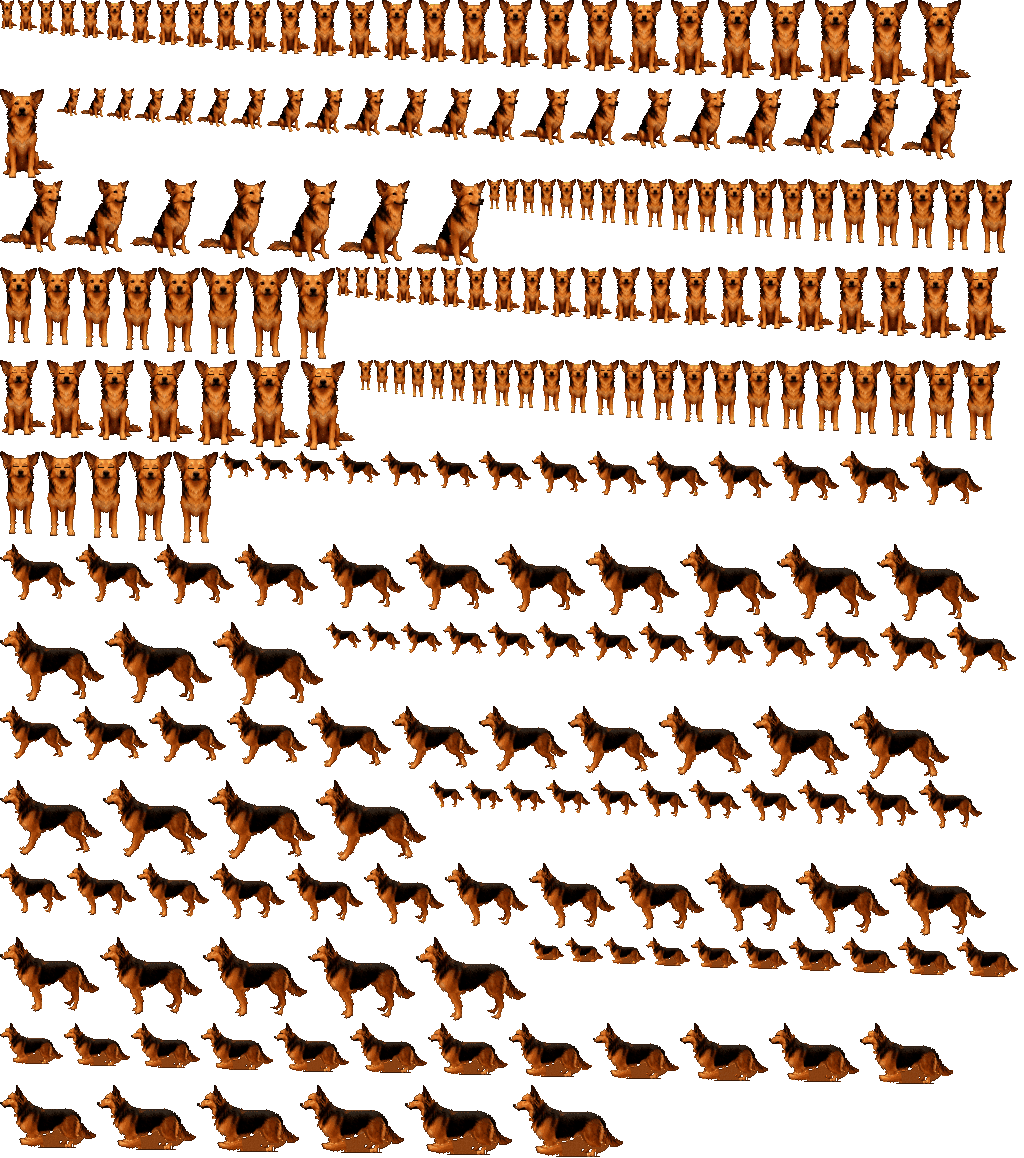
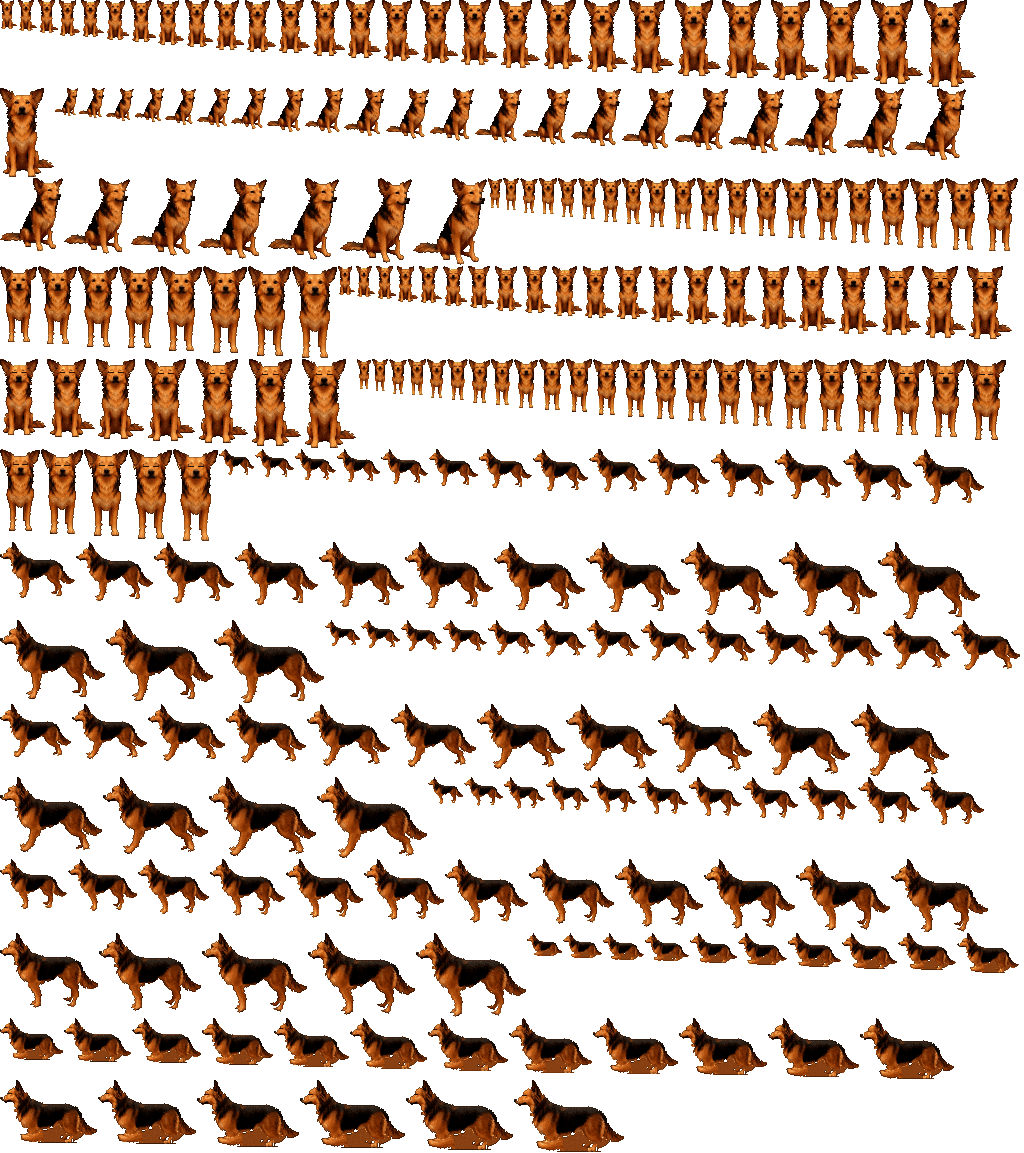
Kleidung pro Pose passgenau vorgezeichnet (Front, 3/4, Profil, Liegen) statt flacher Aufkleber
Claude-Session: https://claude.ai/code/session_01QePyTZKckV5D78KCRfW8MK

diff --git a/raya/items.js b/raya/items.js
@@ -263,71 +263,16 @@ function drawDecor(it) {
 
 /* ---------- Kleidung auf Raya ----------
    Ankerpunkte in Pixeln des 100-%-Sprites (ungespiegelt): Kopfoberseite, Hals, Mantelbereich */
-const WEAR_ANCHORS = {
-  sit: { W: 56, head: [28, 13], neck: [28, 41], coat: [15, 38, 41, 66] },
-  stand: { W: 45, head: [22, 13], neck: [22, 41], coat: [10, 38, 35, 62] },
-  sit34: { W: 75, head: [52, 11], neck: [50, 33], coat: [33, 36, 64, 64] },
-  side: { W: 112, head: [20, 9], neck: [30, 33], back: [[36, 27], [84, 28], [90, 46], [40, 52]] },
-  lie: { W: 112, head: [20, 16], neck: [30, 40], back: [[36, 34], [84, 35], [90, 52], [40, 58]] },
-};
-WEAR_ANCHORS['side-w1'] = WEAR_ANCHORS['side-w2'] = WEAR_ANCHORS.side;
-
-function drawWear(itemId, poseName, x, y, w, flip) {
-  const it = ITEM_BY_ID[itemId]; if (!it || !it.wear) return;
-  const A = WEAR_ANCHORS[poseName.replace('-closed', '')]; if (!A) return;
-  const k = w / A.W;
-  const X = (px, pw = 0) => Math.round(x + (flip ? A.W - px - pw : px) * k);
-  const Y = (py) => Math.round(y + py * k);
-  const S = (v) => Math.max(1, Math.round(v * k));
-  const rect = (px, py, pw, ph, col) => { ctx.fillStyle = PAL[col] || col; ctx.fillRect(X(px, pw), Y(py), S(pw), S(ph)); };
-  const [hx, hy] = A.head, [nx, ny] = A.neck;
-  switch (it.wear) {
-    case 'xmas': {
-      for (let i = 0; i < 14; i++) {
-        const wdt = 16 * (1 - i / 15), cx = hx + i * 0.45;
-        rect(cx - wdt / 2, hy - 4 - i, wdt, 1, 'X');
-      }
-      rect(hx - 10, hy - 4, 20, 4, 'W'); rect(hx - 10, hy - 1, 20, 1, 'S');
-      rect(hx + 4, hy - 21, 5, 5, 'W');
-      break;
-    }
-    case 'hat':
-      rect(hx - 8, hy - 11, 16, 9, 'h'); rect(hx - 3, hy - 11, 6, 1, 'H');
-      rect(hx - 8, hy - 5, 16, 2, 'K');
-      rect(hx - 14, hy - 3, 28, 3, 'H'); rect(hx - 14, hy - 1, 28, 1, 'K');
-      break;
-    case 'wreath': {
-      const cols = ['A', 'Y', 'a', 'A', 'w', 'Y', 'A'];
-      for (let i = 0; i < 7; i++) {
-        const ox = -12 + i * 4, oy = -Math.abs(ox) * 0.18;
-        if (i < 6) rect(hx + ox + 2, hy - 1 + oy, 2, 1, 't');
-        rect(hx + ox - 1.5, hy - 3 + oy, 3, 3, cols[i]); rect(hx + ox - 0.5, hy - 2 + oy, 1, 1, i % 2 ? 'X' : 'y');
-      }
-      break;
-    }
-    case 'scarf':
-      rect(nx - 11, ny - 2, 22, 3, 'X'); rect(nx - 11, ny + 1, 22, 1, 'x');
-      for (let i = 0; i < 9; i++) rect(nx - 9 + i, ny + 1 + i, 18 - 2 * i, 1, i % 3 === 1 ? 'x' : 'X');
-      rect(nx - 4, ny + 3, 1, 1, 'w'); rect(nx + 3, ny + 2, 1, 1, 'w'); rect(nx, ny + 6, 1, 1, 'w');
-      break;
-    case 'coat':
-      if (A.coat) {
-        const [x0, y0, x1, y1] = A.coat;
-        for (let yy = y0; yy < y1; yy++) {
-          const f = (yy - y0) / (y1 - y0), pad = -1.5 * f;
-          rect(x0 + pad, yy, x1 - x0 - 2 * pad, 1, yy === y1 - 1 ? 'j' : 'B');
-        }
-        rect(x0, y0, x1 - x0, 2, 'j'); rect((x0 + x1) / 2 - 0.5, y0 + 2, 1, y1 - y0 - 3, 'j');
-        for (let b = 0; b < 3; b++) rect((x0 + x1) / 2 + 2, y0 + 6 + b * 7, 2, 2, 'Y');
-      } else if (A.back) {
-        ctx.fillStyle = PAL.B; ctx.beginPath();
-        A.back.forEach(([px, py], i) => (i ? ctx.lineTo(X(px), Y(py)) : ctx.moveTo(X(px), Y(py))));
-        ctx.closePath(); ctx.fill();
-        ctx.fillStyle = PAL.j;
-        const [p0, p1] = A.back;
-        ctx.fillRect(Math.min(X(p0[0]), X(p1[0])), Y(p0[1]), Math.abs(X(p1[0]) - X(p0[0])), S(2));
-        rect((p0[0] + p1[0]) / 2, p0[1] + 6, 2, 2, 'Y'); rect((p0[0] + p1[0]) / 2 + 10, p0[1] + 7, 2, 2, 'Y');
-      }
-      break;
-  }
+/* Kleidung: pro Pose und Größenstufe passgenau vorgezeichnet (raya-wear.png, Daten in raya-atlas.json).
+   Jede Kachel kennt ihren Versatz zur Raya-Kachel derselben Stufe. */
+const WEAR_KEY = { halstuch: 'scarf', regenmantel: 'coat', weihnachtsmuetze: 'xmas', blumenkranz: 'wreath', abenteuerhut: 'hat' };
+function drawWear(itemId, poseName, li, x, y, w, flip) {
+  const key = WEAR_KEY[itemId]; if (!key || !ATLAS.wimg) return;
+  const set = ATLAS.wear[key]; if (!set) return;
+  const t = (set[poseName.replace('-closed', '')] || [])[li]; if (!t) return;
+  const [sx, sy, tw, th, dx, dy] = t;
+  const ox = flip ? x + w - dx - tw : x + dx;
+  if (flip) { ctx.save(); ctx.scale(-1, 1); ctx.drawImage(ATLAS.wimg, sx, sy, tw, th, -ox - tw, y + dy, tw, th); ctx.restore(); }
+  else ctx.drawImage(ATLAS.wimg, sx, sy, tw, th, ox, y + dy, tw, th);
+  return [ox, y + dy, ox + tw, y + dy + th];
 }

diff --git a/raya/scene.js b/raya/scene.js
@@ -16,13 +16,14 @@ const TABLES = [[196, 177], [216, 166], [264, 165], [267, 190], [255, 208], [200
 const hSit = (depth) => clamp(36 + 0.52 * (depth - 178), 30, 96);
 
 /* ---------- Atlas (Raya in 9 Tiefenstufen) + Karten ---------- */
-const ATLAS = { img: null, levels: [], tiles: {} };
+const ATLAS = { img: null, wimg: null, levels: [], tiles: {}, wear: {} };
 async function loadAtlas() {
   const [img, meta, map, dimg] = await Promise.all([
     loadImg('raya-atlas.png'), fetch('raya-atlas.json').then((r) => r.json()),
     fetch('room-map.json').then((r) => r.json()), loadImg('room-depth.png'),
   ]);
-  ATLAS.img = img; ATLAS.levels = meta.levels; ATLAS.tiles = meta.tiles;
+  ATLAS.img = img; ATLAS.levels = meta.levels; ATLAS.tiles = meta.tiles; ATLAS.wear = meta.wear || {};
+  loadImg('raya-wear.png').then((w) => { ATLAS.wimg = w; }).catch(() => {});
   MAP.cell = map.cell; MAP.cols = map.cols; MAP.rows = map.rows; MAP.spots = map.spots; MAP.occOff = map.depthOffset;
   MAP.cells = Uint8Array.from(map.cells, (c) => +c); MAP.depth = Int16Array.from(map.depth);
   for (const [a, b] of map.jumps) { (MAP.jumps.get(a) || MAP.jumps.set(a, []).get(a)).push(b); (MAP.jumps.get(b) || MAP.jumps.set(b, []).get(b)).push(a); }
@@ -298,8 +299,9 @@ function drawRaya() {
   const x = Math.round(R.x - w / 2 + pose.dx), y = Math.round(R.y - h + pose.dy);
   if (pose.flip) { ctx.save(); ctx.scale(-1, 1); ctx.drawImage(ATLAS.img, sx, sy, w, h, -x - w, y, w, h); ctx.restore(); }
   else ctx.drawImage(ATLAS.img, sx, sy, w, h, x, y, w, h);
-  if (EXTRAS.outfit) drawWear(EXTRAS.outfit, pose.name, x, y, w, pose.flip);
   R.box = [x, y, x + w, y + h];
+  const wb = EXTRAS.outfit && drawWear(EXTRAS.outfit, pose.name, li, x, y, w, pose.flip);
+  if (wb) R.box = [Math.min(x, wb[0]), Math.min(y, wb[1]), Math.max(x + w, wb[2]), Math.max(y + h, wb[3])];
   const sc = hSit(rSize()) / 90, u = sc > 0.7 ? 2 : 1;
   // Requisiten bei Raya
   if (anim) {

diff --git a/raya/sw.js b/raya/sw.js
@@ -1,8 +1,8 @@
 // Raya – Offline-Cache: erst Netz (immer aktuell), bei fehlender Verbindung aus dem Cache
-const V = 'raya-v17';
+const V = 'raya-v18';
 const ASSETS = ['./', 'index.html', 'style.css', 'sprites.js', 'items.js', 'scene.js', 'game.js', 'diary.js', 'cloud.js', 'firebase-config.js', 'manifest.webmanifest',
   'icon-192.png', 'icon-512.png', 'vt323.woff2', 'press-start-2p.woff2',
-  'raya-atlas.png', 'raya-atlas.json', 'raya-stand.png', 'raya-side-small.png', 'raya-side-small-w1.png', 'raya-side-small-w2.png',
+  'raya-atlas.png', 'raya-atlas.json', 'raya-wear.png', 'raya-stand.png', 'raya-side-small.png', 'raya-side-small-w1.png', 'raya-side-small-w2.png',
   'room-day.png', 'room-dusk.png', 'room-night.png', 'room-map.json', 'room-depth.png'];
 self.addEventListener('install', (e) => {
   e.waitUntil(caches.open(V).then((c) => c.addAll(ASSETS)));
